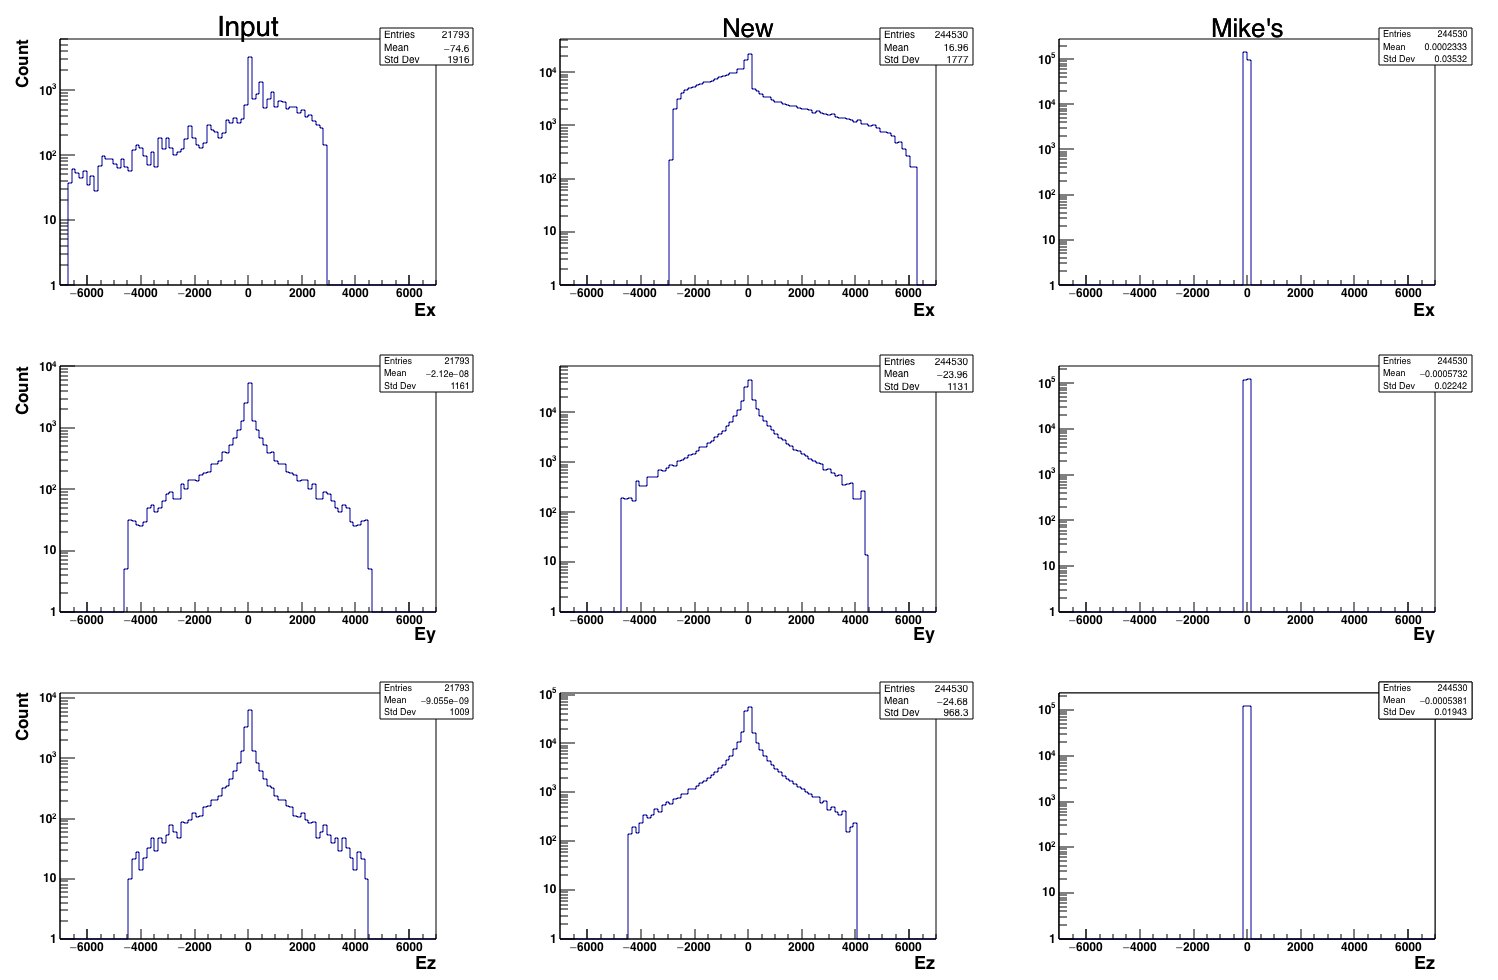
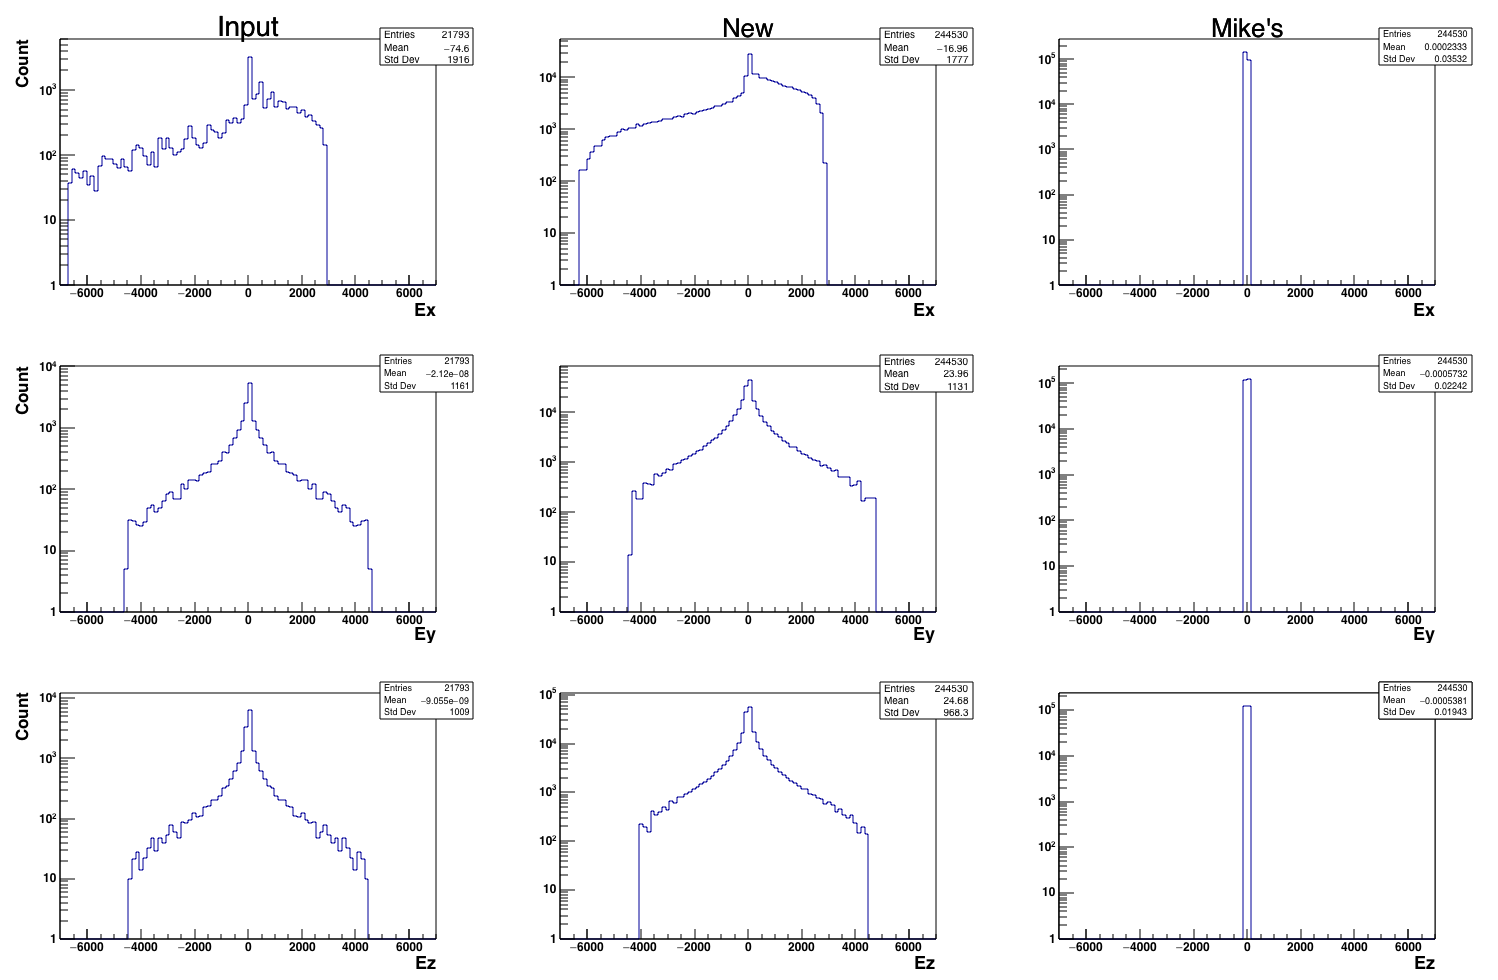
Major updates

diff --git a/SourceCode/SpaceCharge.C b/SourceCode/SpaceCharge.C
@@ -256,9 +256,9 @@ std::vector<double> SpaceCharge::GetEfieldOffsets(double xVal, double yVal, doub
             theEfieldOffsets = GetEfieldOffsetsParametric(xVal, yVal, zVal);
         }
 
-    theEfieldOffsets.at(0) = -1.0 * theEfieldOffsets.at(0);
-    theEfieldOffsets.at(1) = -1.0 * theEfieldOffsets.at(1);
-    theEfieldOffsets.at(2) = -1.0 * theEfieldOffsets.at(2);
+    //theEfieldOffsets.at(0) = -1.0 * theEfieldOffsets.at(0);
+    //theEfieldOffsets.at(1) = -1.0 * theEfieldOffsets.at(1);
+    //theEfieldOffsets.at(2) = -1.0 * theEfieldOffsets.at(2);
 
     return theEfieldOffsets;
 }
